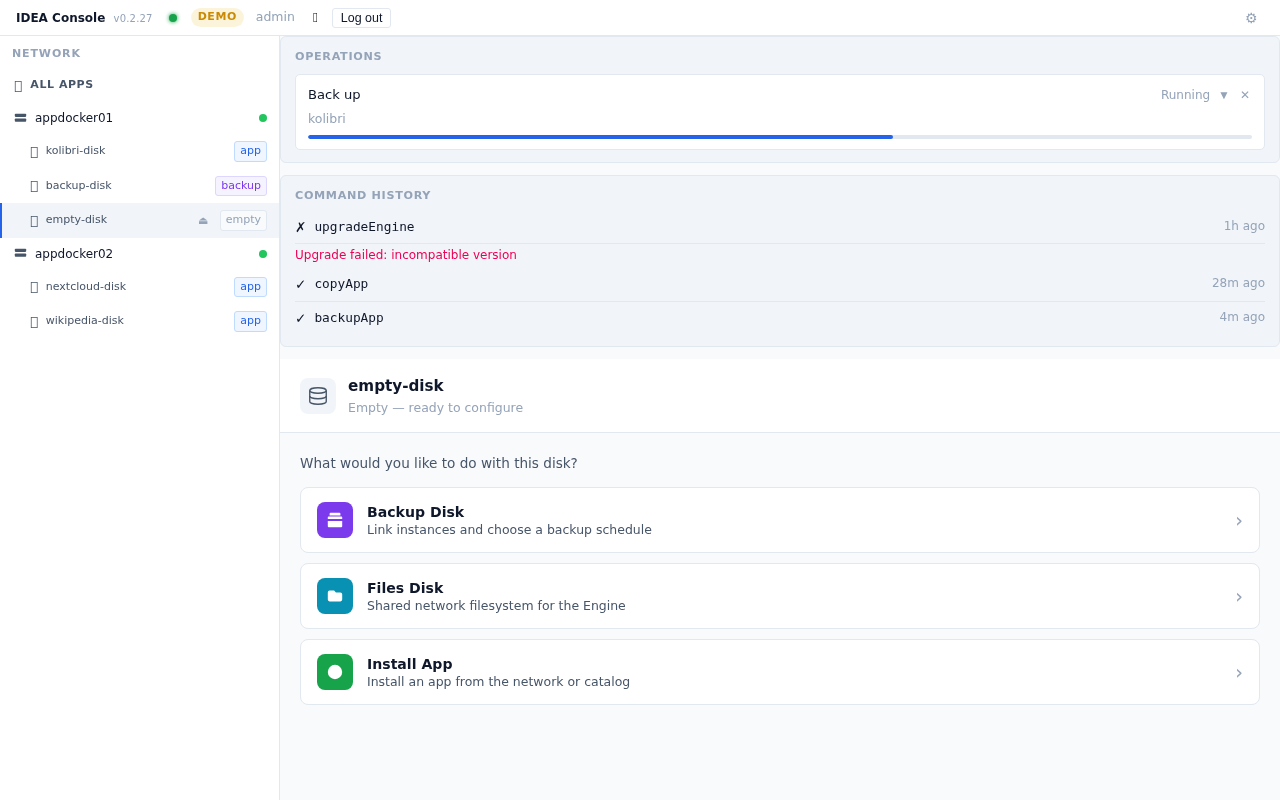
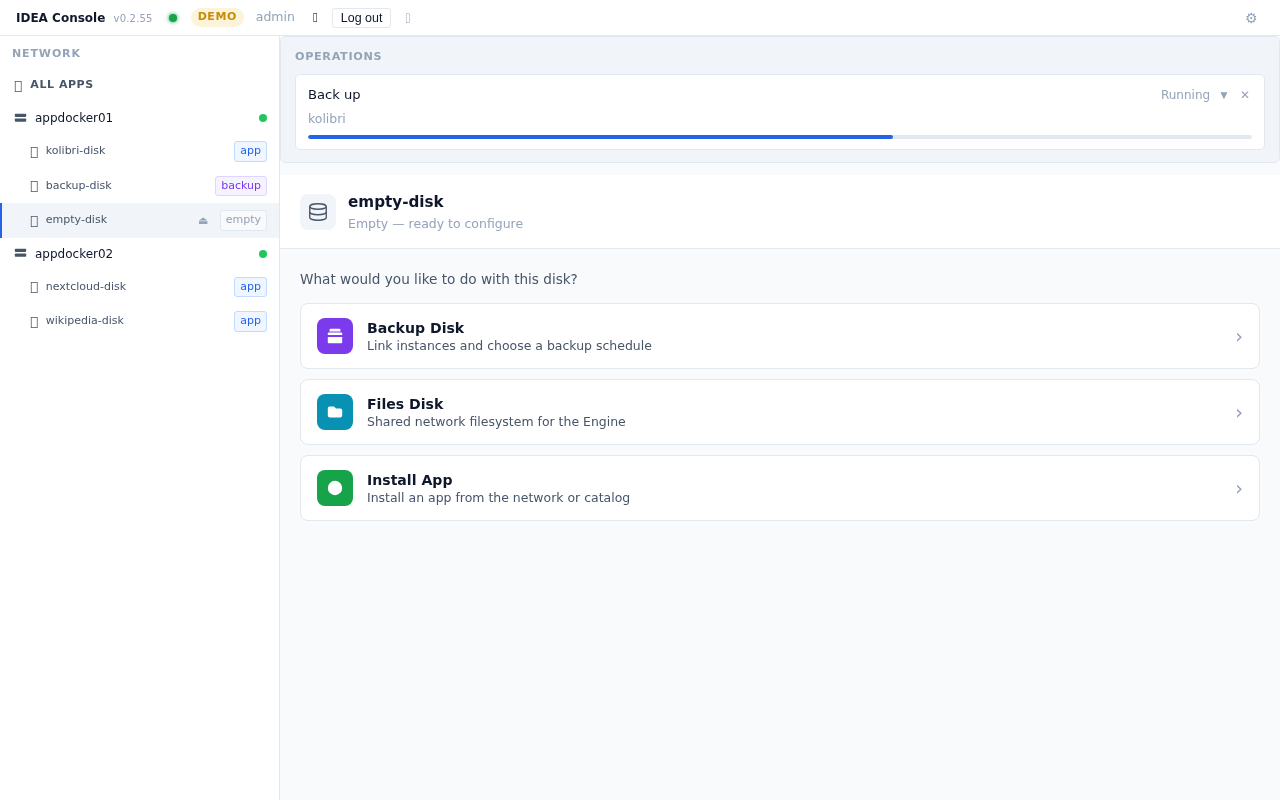
docs: update UI-DESIGN.md for History panel button (v0.2.55)

diff --git a/design/UI-DESIGN.md b/design/UI-DESIGN.md
@@ -46,6 +46,7 @@ Present on **every screen**, always at the top.
 | DEMO badge | Orange badge | Demo mode only |
 | Username | Logged-in operator's name | Authenticated only |
 | 👥 button | Toggles Operator Management screen | Authenticated only |
+| 📋 button | Toggles History panel (command history overlay) | Connected or Demo mode only |
 | Log out | Logs out current operator | Authenticated only |
 | ⚙ button | Toggles Settings panel (✕ to close) | Always |
 
@@ -213,19 +214,16 @@ Each `InstanceRow` shows:
 
 ![S5 Operation Progress](screenshots/S5-operation-progress.png)
 
-**Command History panel** — shown below the Operation Progress bar, always visible while logged in. Lists recently completed commands (newest first). Each row shows:
+**History panel** — opened via the 📋 button in the status bar (toggles open/closed; 📋 turns to ✕ while open). Overlays the right-panel content area. Lists recently completed commands (newest first). Each row shows:
 - ✓ / ✗ status icon + command name + time-ago label
 - Click to expand → `LogLines` viewer with the full captured log for that trace
 - Error message shown inline for failed commands
 - "No command history yet" placeholder when empty
+- "Not available on this engine" message when the engine doesn't expose the command log endpoint
 
-![S5 Command History](screenshots/S5-command-history.png)
+The history is **not** always visible — it is opt-in via the status bar button, keeping the main app list uncluttered.
 
-*Expanded trace (click a row to reveal log lines):*
-
-![S5 Command History Expanded](screenshots/S5-command-history-expanded.png)
-
-**Files:** `src/components/CommandHistory.tsx`, `src/components/LogLines.tsx`, `src/store/commandLog.ts`, `src/types/commandLog.ts`
+**Files:** `src/components/HistoryPanel.tsx`, `src/components/CommandHistory.tsx`, `src/components/LogLines.tsx`, `src/store/commandLog.ts`, `src/types/commandLog.ts`
 
 ---
 
@@ -322,7 +320,7 @@ On mobile the main layout is replaced by a **bottom tab bar** with three tabs. T
 
 ![Mobile Activity tab](screenshots/S-mobile-activity.png)
 
-- OperationProgress + CommandHistory stacked vertically
+- OperationProgress + History panel (📋) accessible via status bar button
 - Red badge on the tab icon shows count of active operations (Running/Pending)
 
 ---
@@ -343,7 +341,7 @@ On mobile the main layout is replaced by a **bottom tab bar** with three tabs. T
                                   │ Create account           │
                  ┌────────────────▼──────────────────────┐   │
   ⚙ (any screen)│        STATUS BAR (persistent)        │   │
-  ──────────────▶│  ⚙ Settings · 👥 Ops Mgmt · Log out  │◀──┘
+  ──────────────▶│  ⚙ Settings · 📋 History · 👥 Ops Mgmt · Log out  │◀──┘
                  └──────┬──────────────┬─────────────────┘
                         │              │
               Not logged in         Logged in
